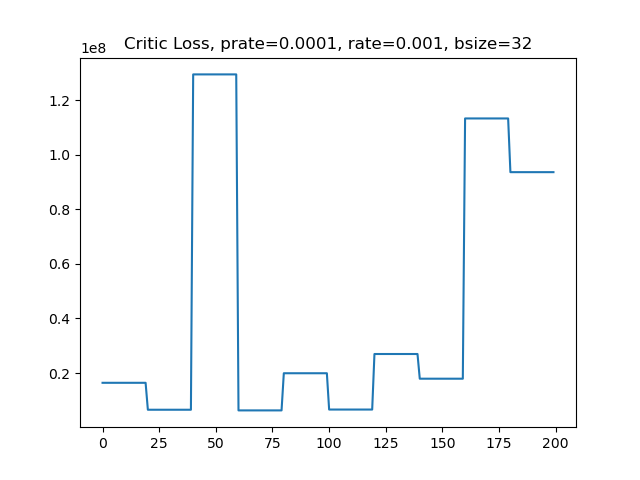
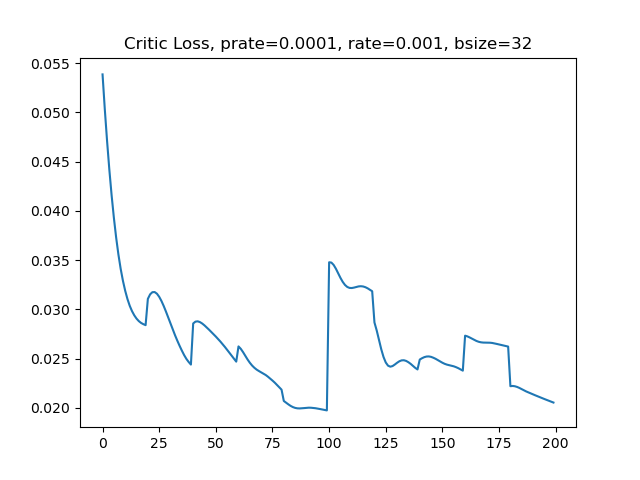
batch normalize reward

diff --git a/market-sim/drl_top.py b/market-sim/drl_top.py
@@ -177,6 +177,9 @@ def main():
             action_batch[j,:] = np.array(ob['action'])
             term_batch[j,:] = np.array(ob['terminal'])
             reward_batch[j,:] = np.array(ob['reward'])
+        # Normalize reward batch
+        reward_norm = np.sqrt(np.sum(reward_batch**2))
+        reward_batch = reward_batch/reward_norm
         
         # Update the policy the number of arrivals
         for j in range(int(drl_args["updateSteps"])):
